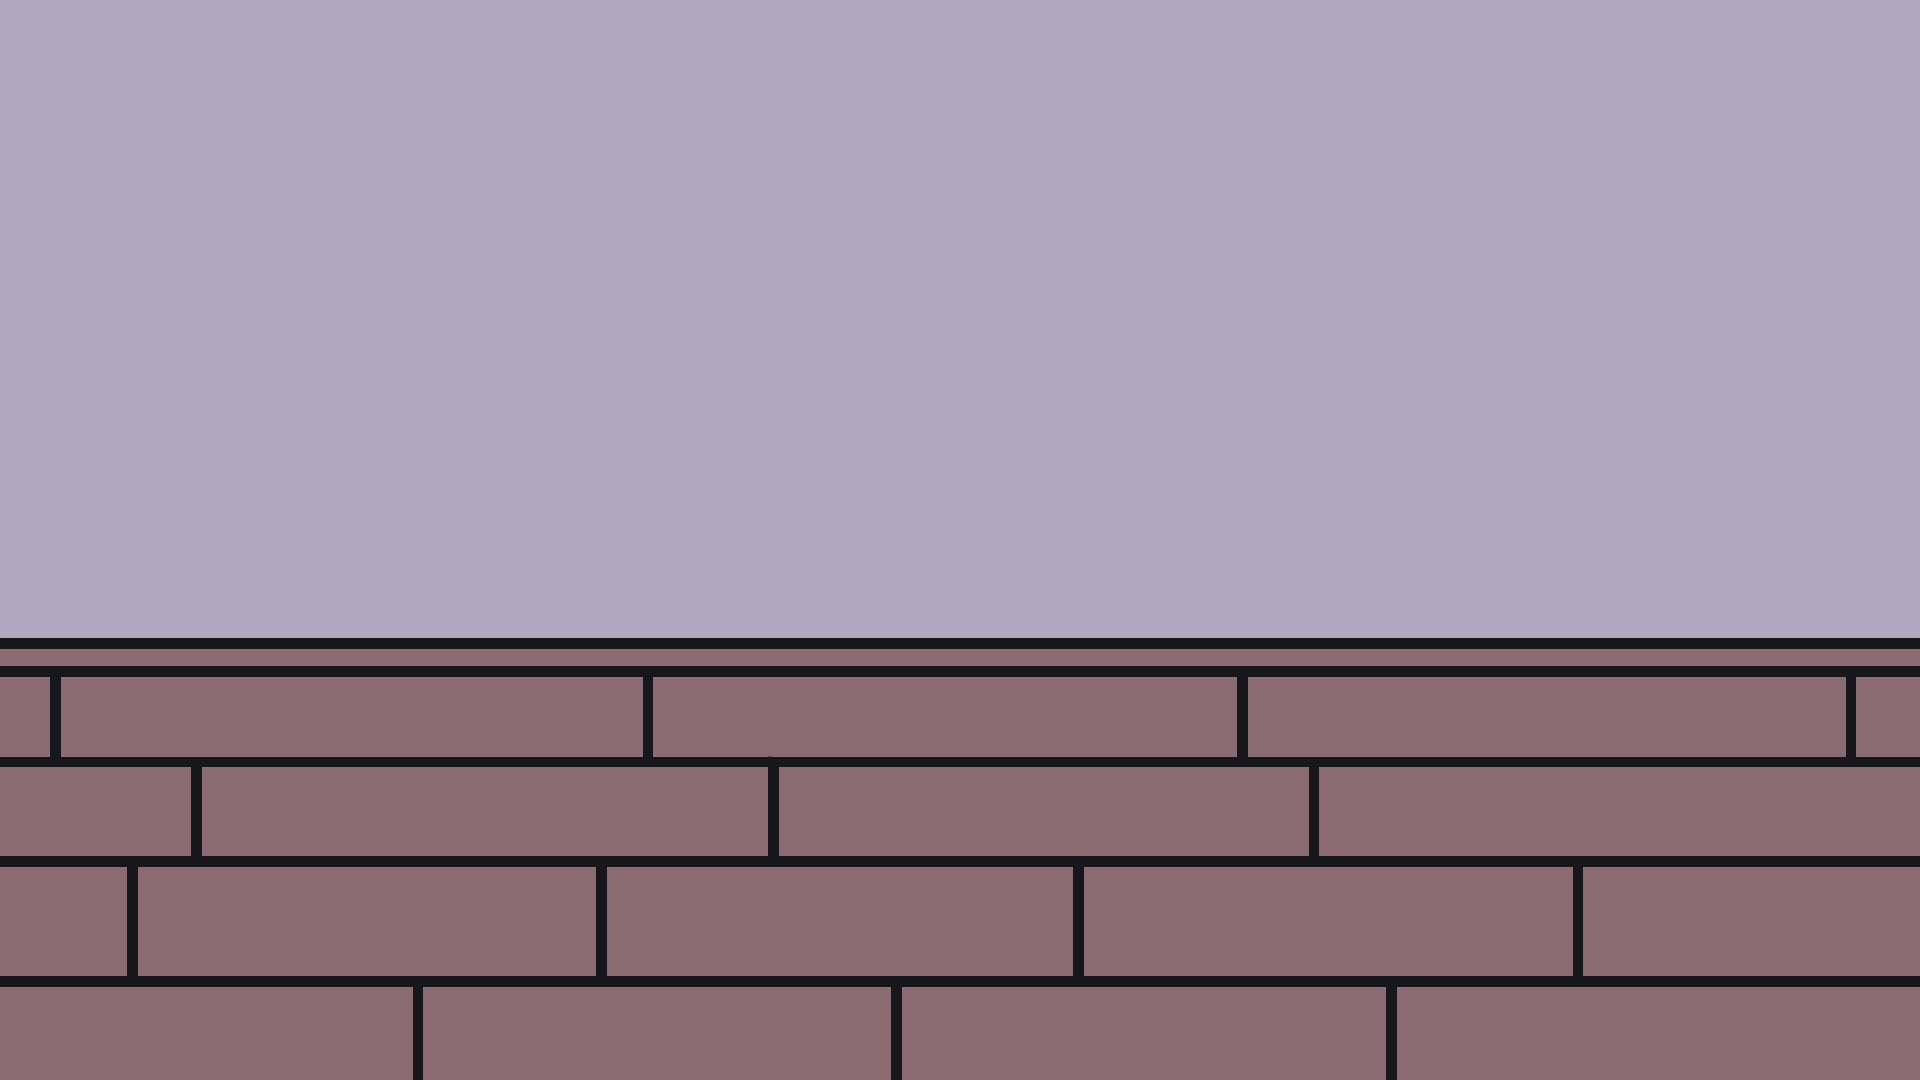
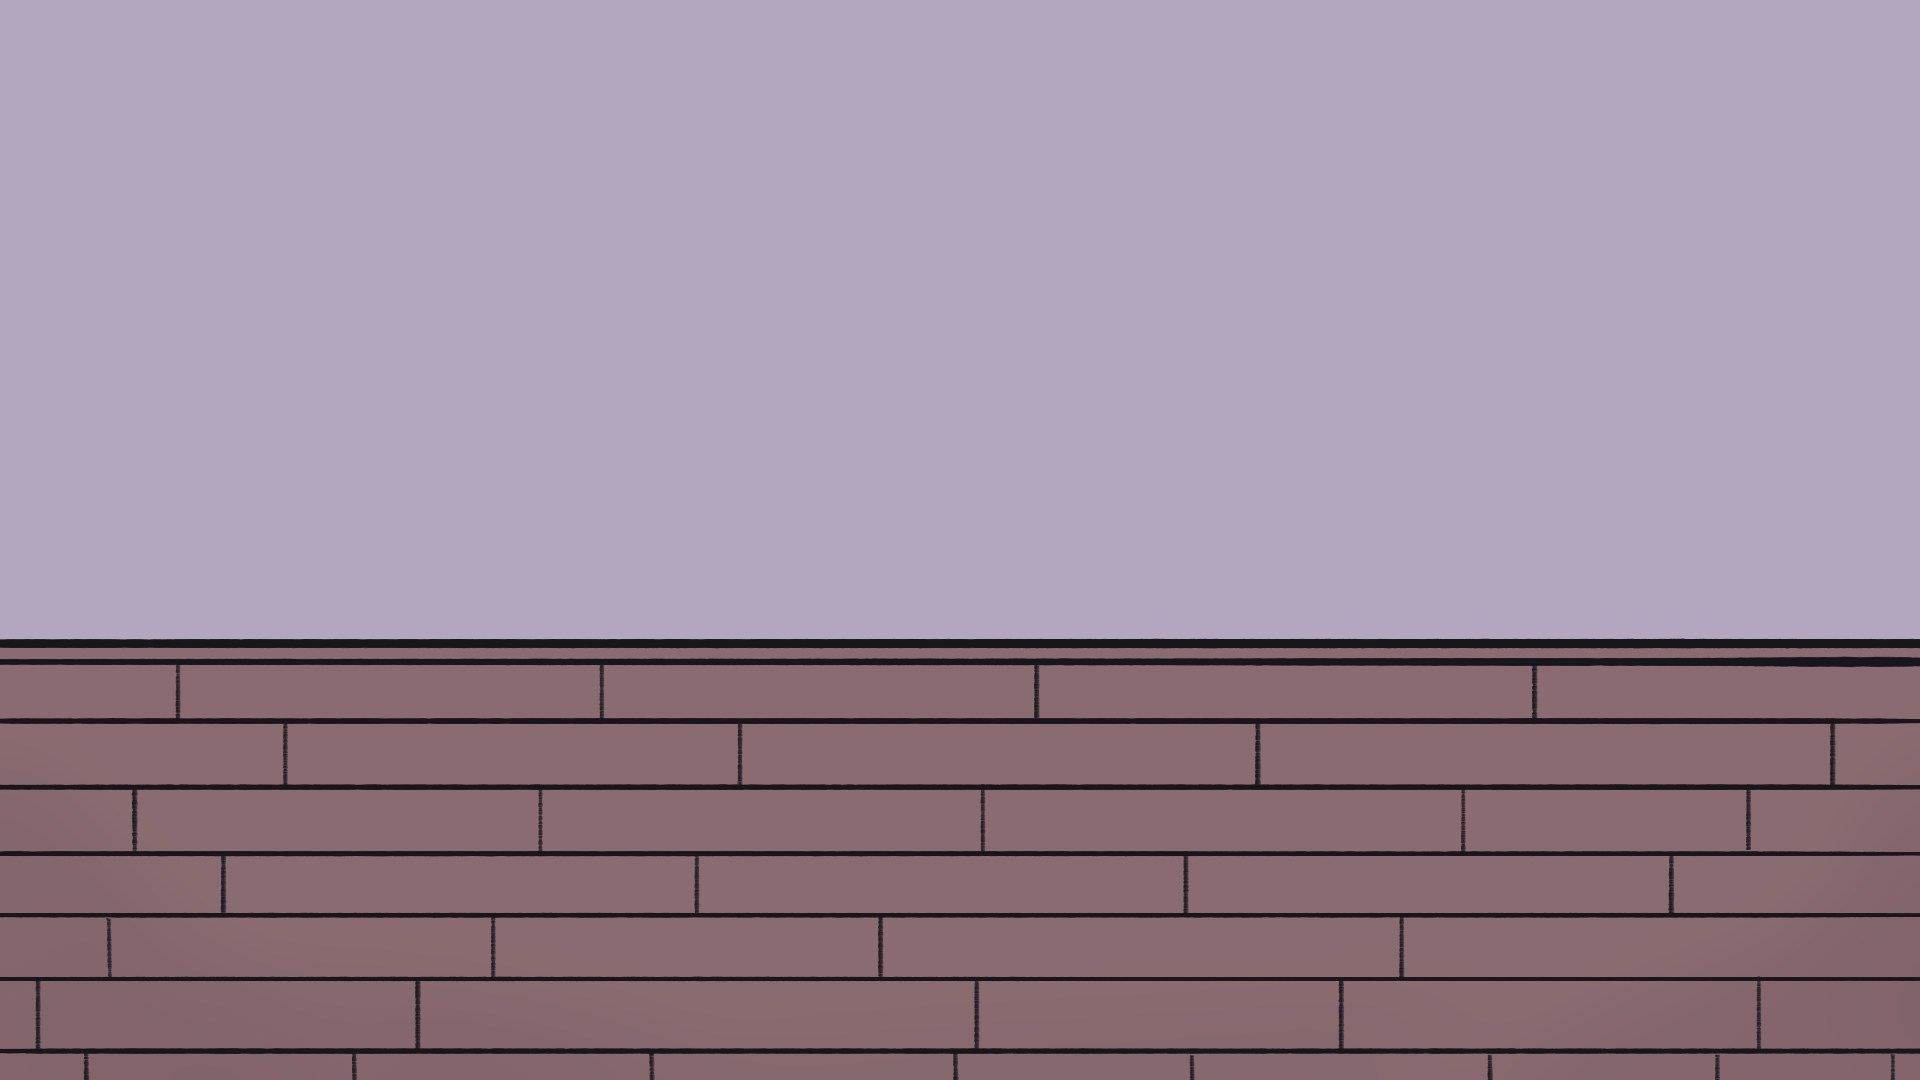
style(mobile): padroniza imagens para snake_case

Changed region(s): [[0.0, 0.5806, 1.0, 1.0]]

diff --git a/mobile/lumeesyapp/lib/pages/TelaJardim.dart b/mobile/lumeesyapp/lib/pages/TelaJardim.dart
@@ -129,7 +129,7 @@ class _TelaJardimState extends State<TelaJardim> {
     if (_especie == null) {
       return {
         'frase': "Carregando...",
-        'imagem': "assets/images/estados_planta/estado-normal.png",
+        'imagem': "assets/images/estados_planta/estado_normal.png",
       };
     }
 
@@ -146,27 +146,27 @@ class _TelaJardimState extends State<TelaJardim> {
     if (umidadeAtual > uMax) {
       return {
         'frase': "Estou encharcada!",
-        'imagem': "assets/images/estados_planta/estado-encharcado.png",
+        'imagem': "assets/images/estados_planta/estado_encharcado.png",
       };
     } else if (umidadeAtual < uMin) {
       return {
         'frase': "Estou com sede!",
-        'imagem': "assets/images/estados_planta/estado-sede.png",
+        'imagem': "assets/images/estados_planta/estado_sede.png",
       };
     } else if (luxAtual > lMax) {
       return {
         'frase': "Estou com calor!",
-        'imagem': "assets/images/estados_planta/estado-calor.png",
+        'imagem': "assets/images/estados_planta/estado_calor.png",
       };
     } else if (luxAtual < lMin) {
       return {
         'frase': "Estou com frio...",
-        'imagem': "assets/images/estados_planta/estado-frio.png",
+        'imagem': "assets/images/estados_planta/estado_frio.png",
       };
     } else {
       return {
         'frase': "Estou bem!!",
-        'imagem': "assets/images/estados_planta/estado-normal.png",
+        'imagem': "assets/images/estados_planta/estado_normal.png",
       };
     }
   }